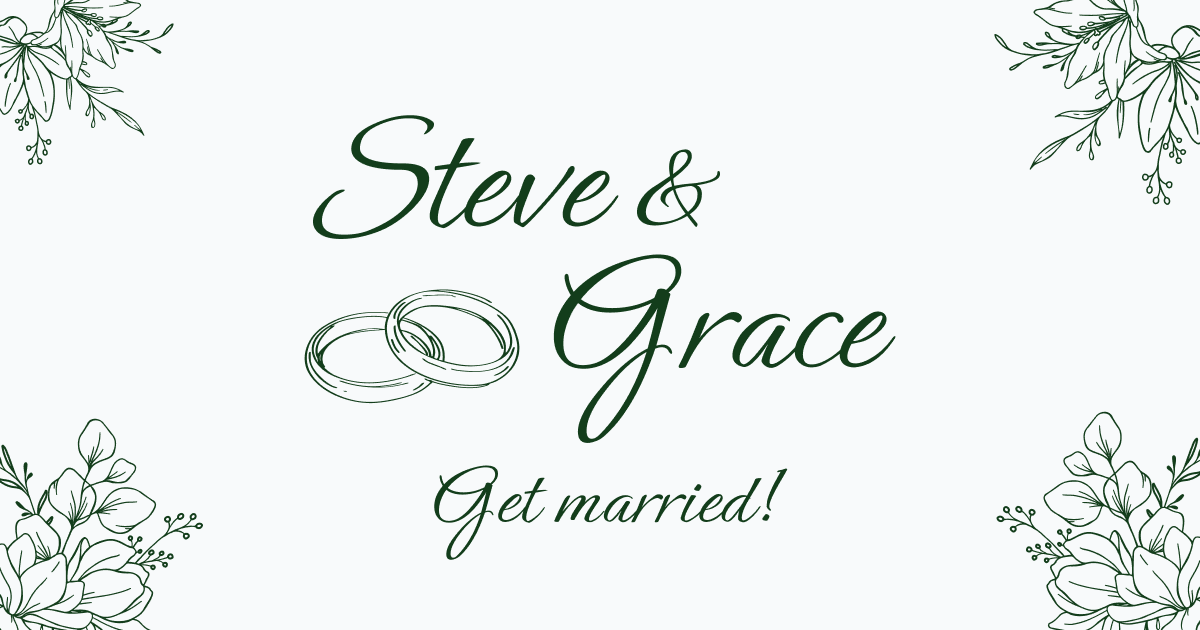
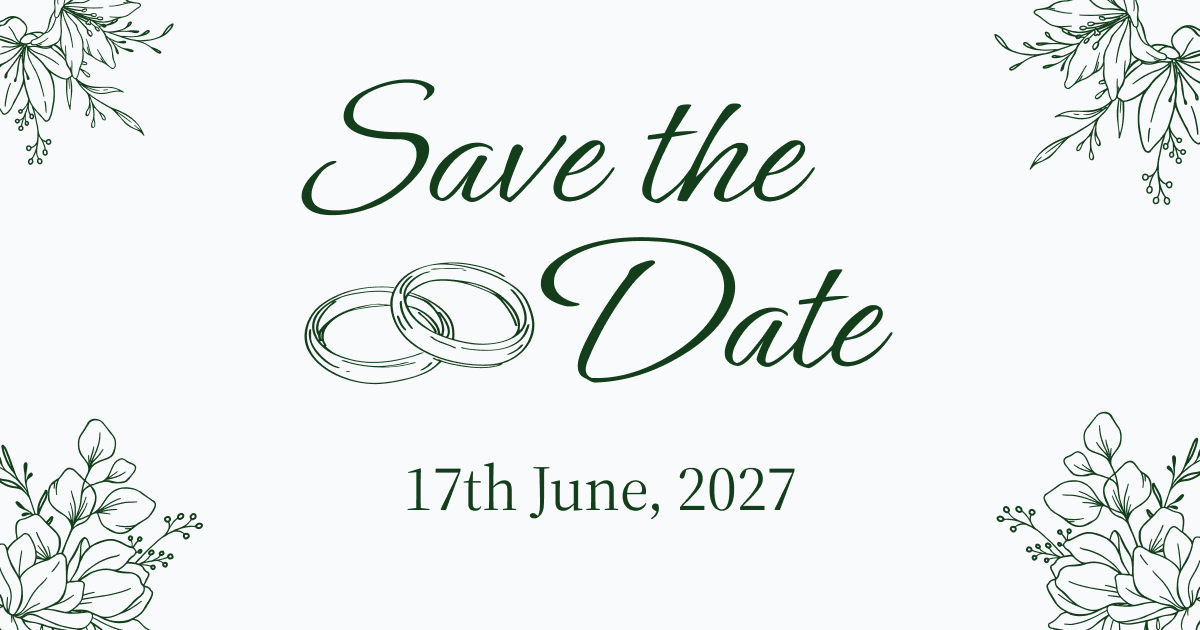
update social image

Changed region(s): [[0.2467, 0.1508, 0.74, 0.6937], [0.3392, 0.7238, 0.6783, 0.9048], [0.3083, 0.1206, 0.37, 0.1508]]

diff --git a/src/routes/rsvp/[guestId]/+page.svelte b/src/routes/rsvp/[guestId]/+page.svelte
@@ -3,19 +3,18 @@
 	import Head from '$/lib/components/head.svelte';
 	import RSVP from '$/lib/components/rsvp-form.svelte';
 	import SteveAndGrace from '$lib/components/steve-and-grace.svelte';
-
-	// TODO: Need to add img & desc to the Head
+	import { content } from '$/constants/content';
 
 	let { data, form }: PageProps = $props();
 </script>
 
 <Head
-	title="RSVP"
+	title={`RSVP for ${data.guest.firstName}`}
 	image={{
-		src: '/social/save-the-date.png',
-		alt: 'Save the date'
+		src: '/social/steve-and-grace-get-married.png',
+		alt: content.rsvp.title
 	}}
-	description=""
+	description={content.social}
 />
 
 <article class="container narrow">

diff --git a/src/routes/+page.svelte b/src/routes/+page.svelte
@@ -11,12 +11,12 @@
 </script>
 
 <Head
-	title="RSVP"
+	title="Steve and Grace get married!"
 	image={{
-		src: '/social/save-the-date.png',
-		alt: 'Save the date'
+		src: '/social/steve-and-grace-get-married.png',
+		alt: content.rsvp.title
 	}}
-	description=""
+	description={content.social}
 />
 
 <article class="container">
